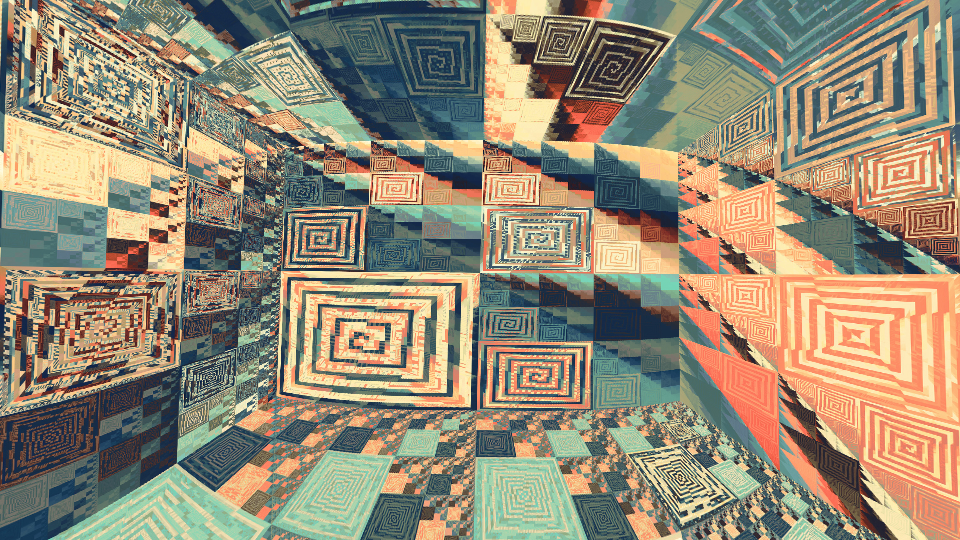
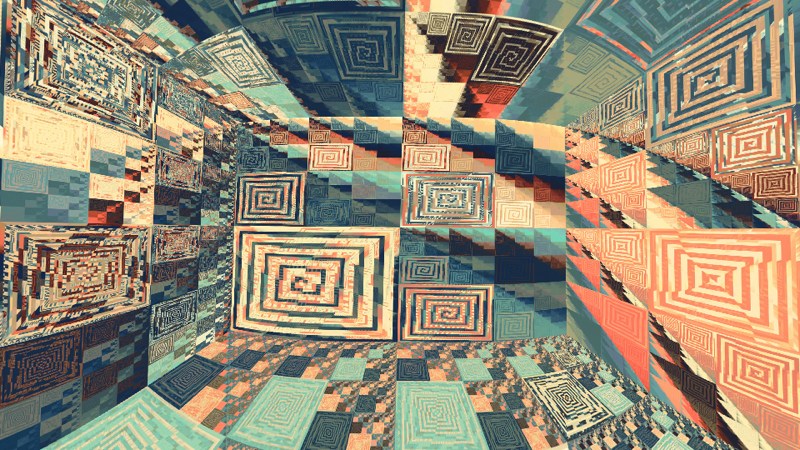
task-p7-cleanup: chore: shrink README screenshots to render size, record them in the audit (CR F4)
Close-out CR fix: the four projection screenshots shipped at 960x540
(4.5M total) while the README renders them at half a table column.
Resized to 800x450 (3.2M, -30%); visual identity preserved.

The deletion audit's Kept table now carries the demo/shots row it was
missing -- an addition this branch made, recorded because that audit is
the tree's asset ledger and R4 found nothing accounted it.

README: the integration-tests sentence no longer claims a real GPU (CI
runs on SwiftShader; local runs do not), and the migration-guide link
notes the guide is written in Chinese.

Changed region(s): [[0.6875, 0.84, 0.7188, 0.9022]]

diff --git a/docs/superpowers/notes/p7-deletion-audit.md b/docs/superpowers/notes/p7-deletion-audit.md
@@ -37,6 +37,7 @@ or path resolution anywhere in `src/` or `test/` reaches a deleted path.
 | `demo/main.ts` | The other half of the new demo — created by P1 Task 10, made the real viewer demo by P5 Task 6 (commit `18b493c`): imports `FramelessImageViewer` from `../src/index` and serves `/image/2048x1024.jpg` off the vite demo root. Deleting it would leave the README example nothing to run against. |
 | `demo/image/` (20M) | The demo's showcase panoramas — `demo/main.ts` renders `/image/2048x1024.jpg` from it. Not published: `package.json` `files: ["dist"]` keeps every demo asset out of the npm tarball. |
 | `demo/video/` (11M) | The demo's video showcase material, same category as `demo/image/`; kept in the repo, excluded from the tarball by `files: ["dist"]`. |
+| `demo/shots/` (3.1M) | The four projection comparison screenshots Task 4 captured for the README (`linear`, `cylindrical`, `planet`, `pannini`, commit `b6877e8`). An addition, not a deletion-leftover — recorded here because this audit is the tree's asset ledger. Originally 960×540 (4.5M total); resized to 800×450 (3.2M) during the close-out CR review (2026-09-24), which found the capture size exceeded what the README's half-width table cells render. Not published: `files: ["dist"]` keeps them out of the tarball; the README references them by absolute GitHub URL. |
 
 ## Removed assets
 

diff --git a/README.md b/README.md
@@ -179,15 +179,17 @@ npm run doc          # typedoc -> docs/api/ (generated, not committed)
 ```
 
 The demo (`npm run start`) serves `demo/` with the assets used in the examples
-above. Integration tests run in a real browser against a real GPU — see
-`CLAUDE.md` for the gates and conventions.
+above. Integration tests run in a real browser — on CI against a software
+adapter (SwiftShader), locally against a real GPU — see `CLAUDE.md` for the
+gates and conventions.
 
 ## Migrating from 0.2.x
 
 1.0.0 is a rewrite: the entry points, constructor options and camera options
 all changed, and there is no compatibility shim. Every difference is listed,
 with the reason, in
-[docs/migration-v0.2-to-v1.0.md](https://github.com/yusangeng/pano.gl/blob/master/docs/migration-v0.2-to-v1.0.md).
+[docs/migration-v0.2-to-v1.0.md](https://github.com/yusangeng/pano.gl/blob/master/docs/migration-v0.2-to-v1.0.md)
+(written in Chinese).
 
 ## License
 
